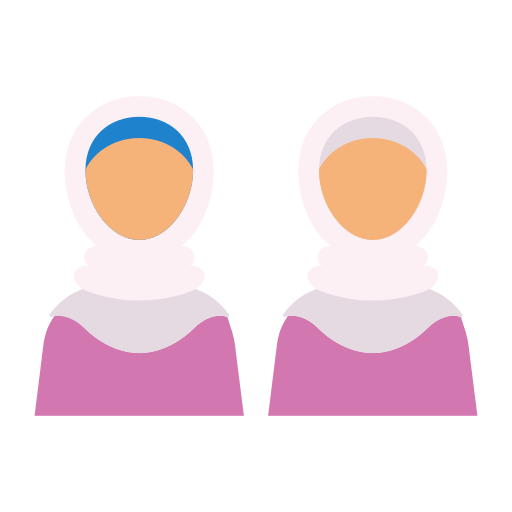
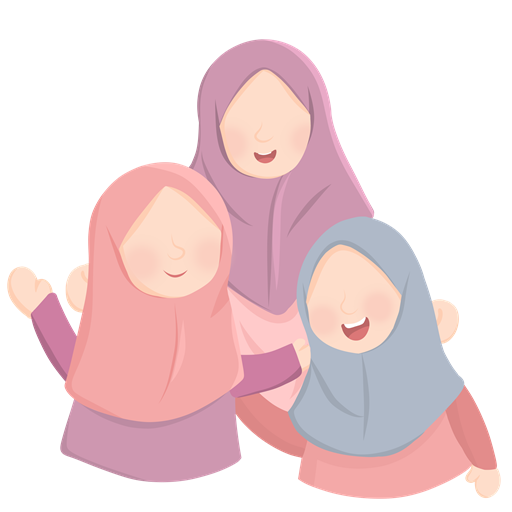
v10.1.0 dev

diff --git a/public/flutter_bootstrap.js b/public/flutter_bootstrap.js
@@ -37,6 +37,6 @@ _flutter.buildConfig = {"engineRevision":"6c0baaebf70e0148f485f27d5616b3d3382da7
 
 _flutter.loader.load({
   serviceWorkerSettings: {
-    serviceWorkerVersion: "4004448959" /* Flutter's service worker is deprecated and will be removed in a future Flutter release. */
+    serviceWorkerVersion: "4223866031" /* Flutter's service worker is deprecated and will be removed in a future Flutter release. */
   }
 });
